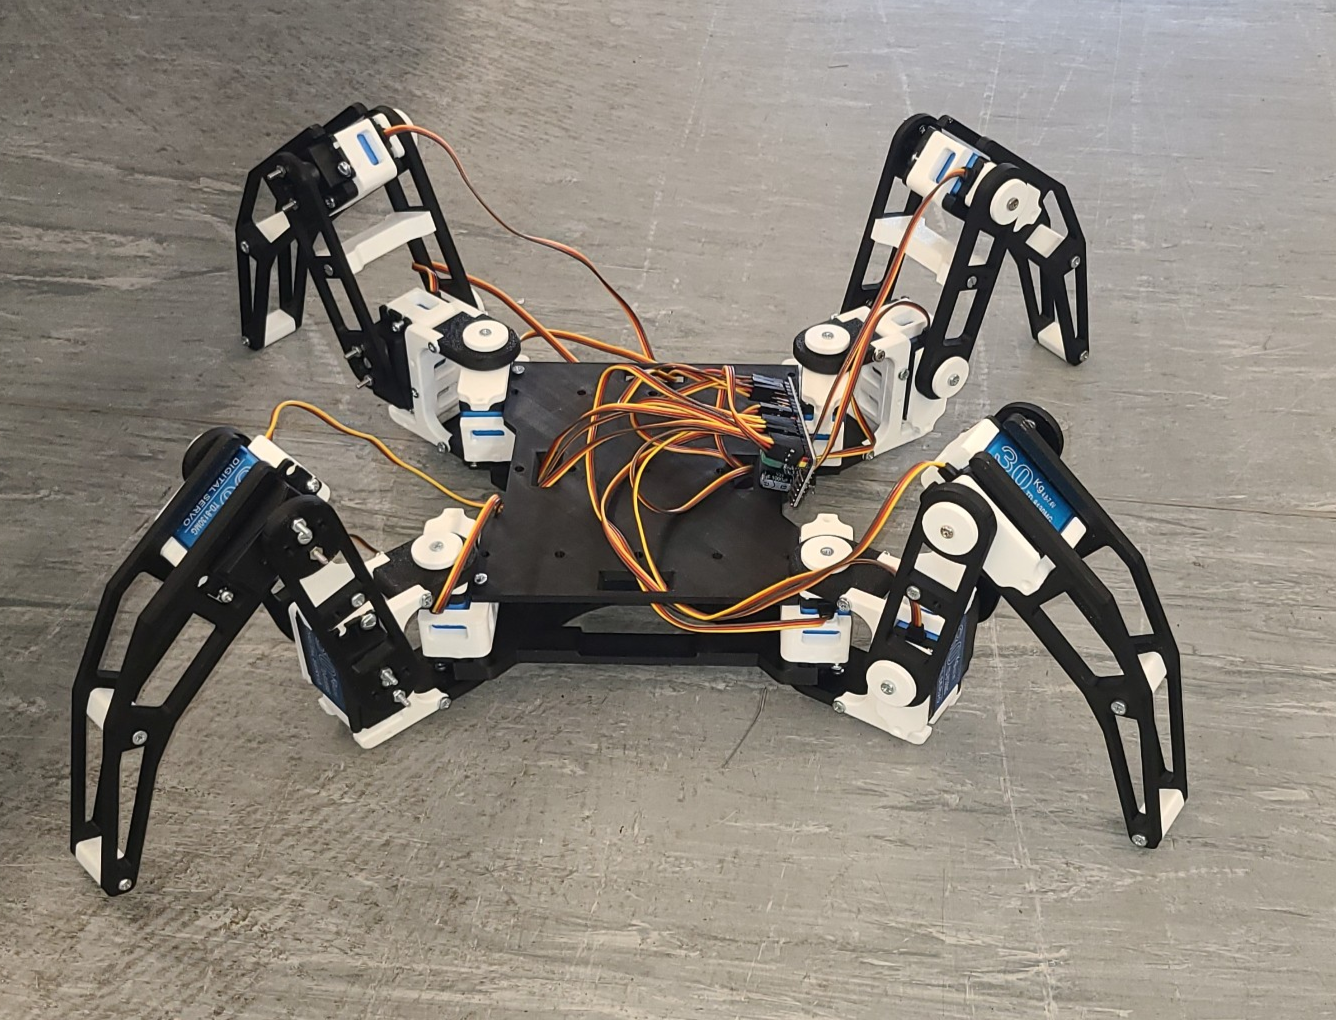
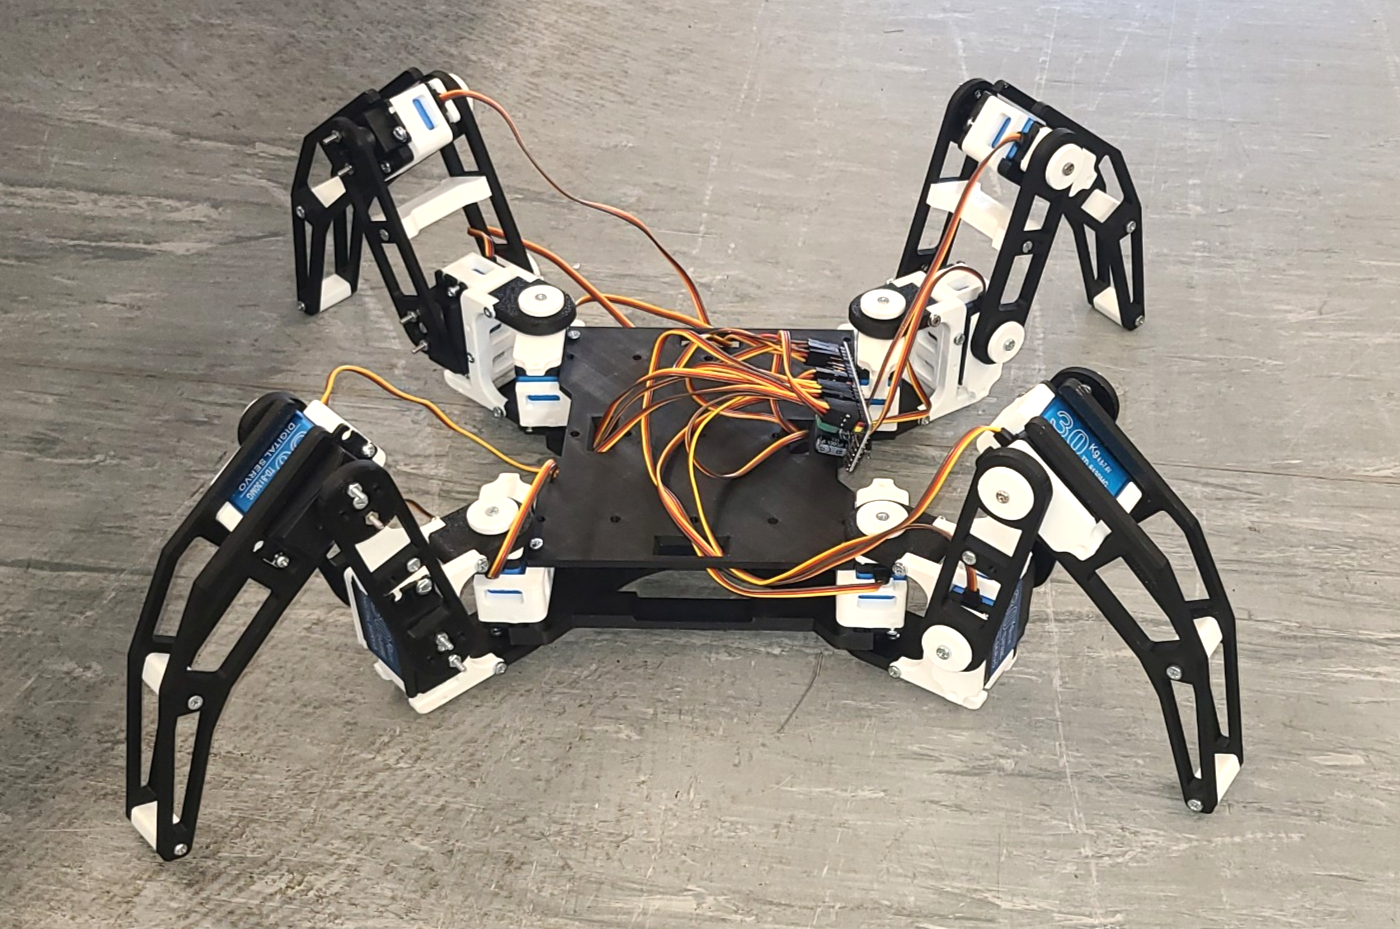
Make images brighter; Fix Unibots hyperlink

diff --git a/docs/index.html b/docs/index.html
@@ -87,17 +87,18 @@ title: "Home"
       <div class="competition-card">
         <h3>Sumobots</h3>
         <p>
-          We build remote-controlled robots designed to push each other out of a
+          Build remote-controlled robots designed to push each other out of a
           platform. Just like a sumo match, but with bots!
         </p>
-        <img src="assets/clemBot.jpg" alt="(Image of Sumobots)">
+        <img src="assets/clemBot_brighter.jpg" alt="(Image of Sumobots)">
       </div>
 
       <div class="competition-card">
         <h3>Unibots</h3>
         <p>
-          We build autonomous robots and compete in [Unibots](https://unibots.uk/), an inter-university robotics
-          competition. Focus shifts to this after SumoBots season.
+          We build autonomous robots and compete in <a href="https://unibots.uk/">Unibots</a>, an inter-university
+          robotics
+          competition.
         </p>
         <img src="assets/Tenyra.jpg" alt="(Image of Unibots)">
       </div>